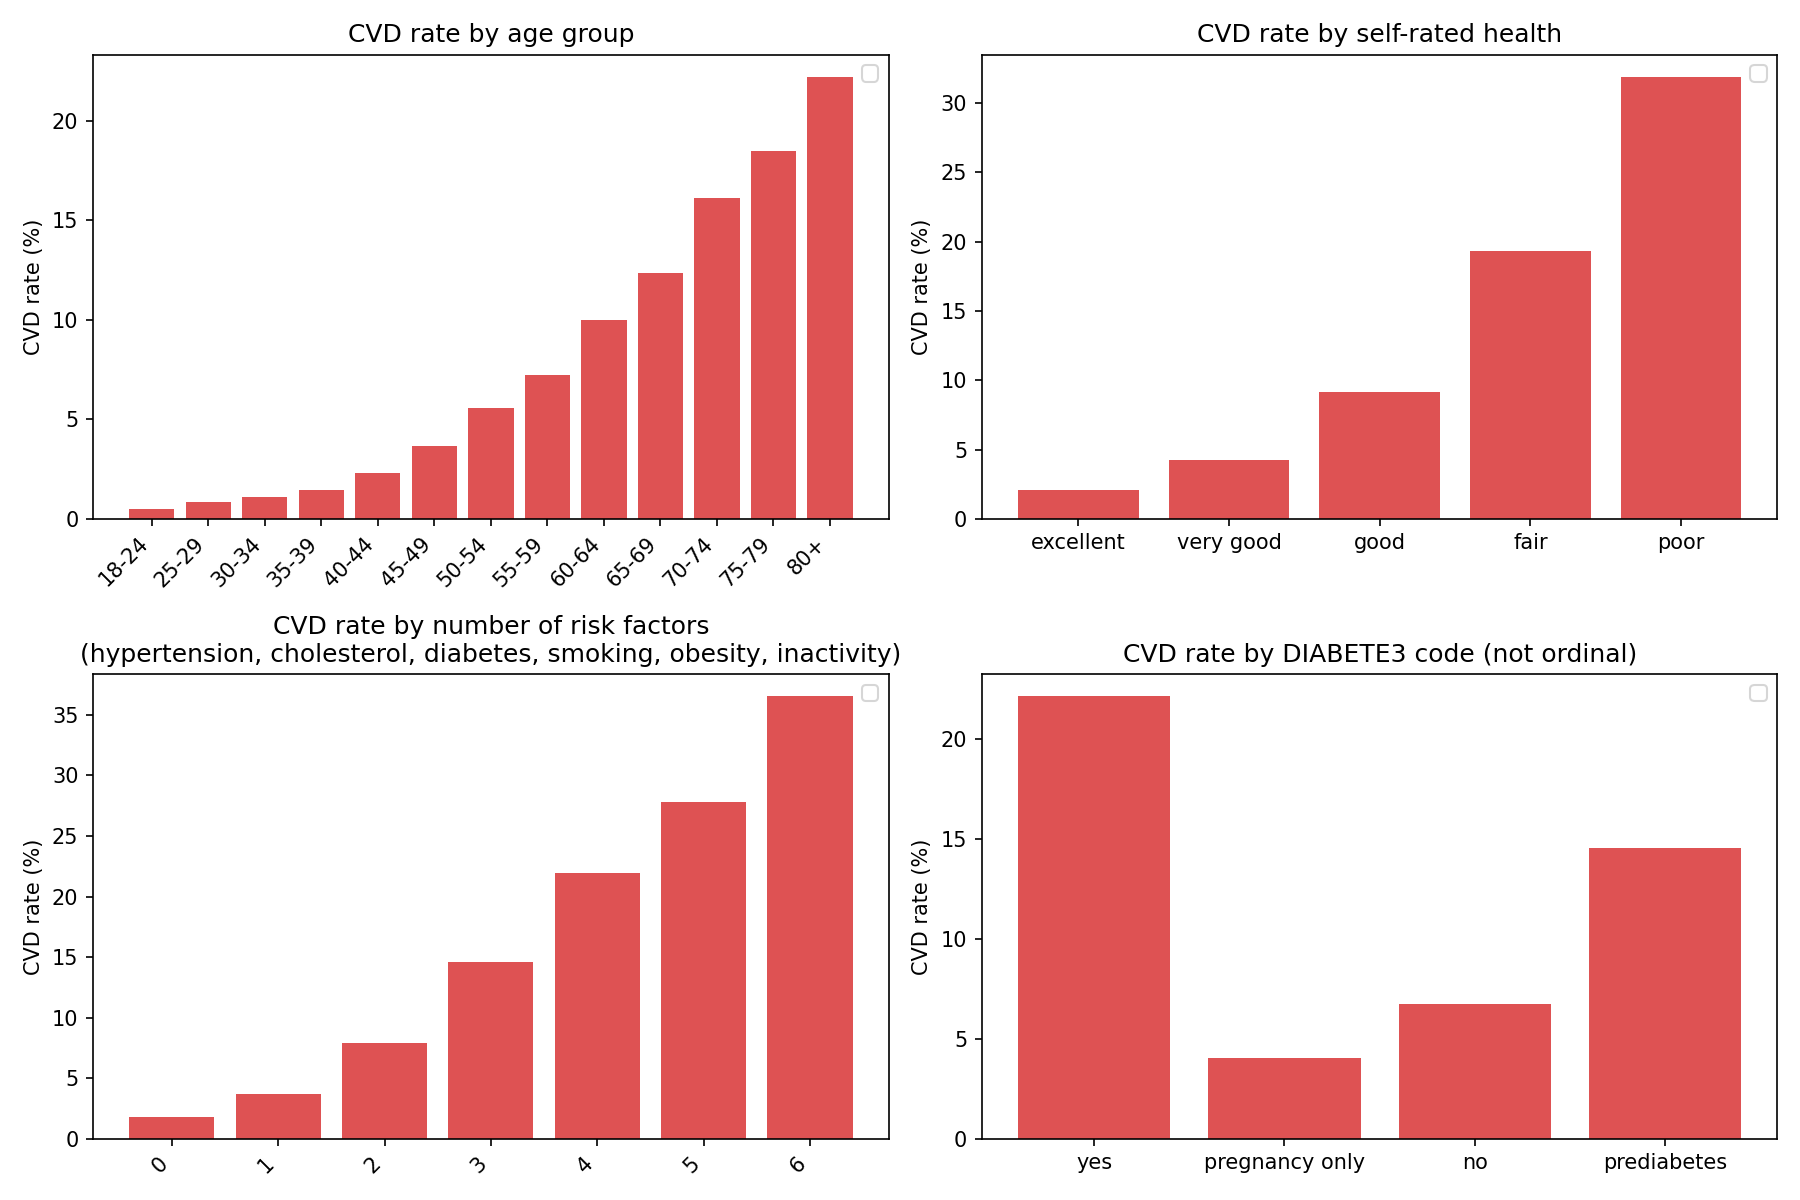
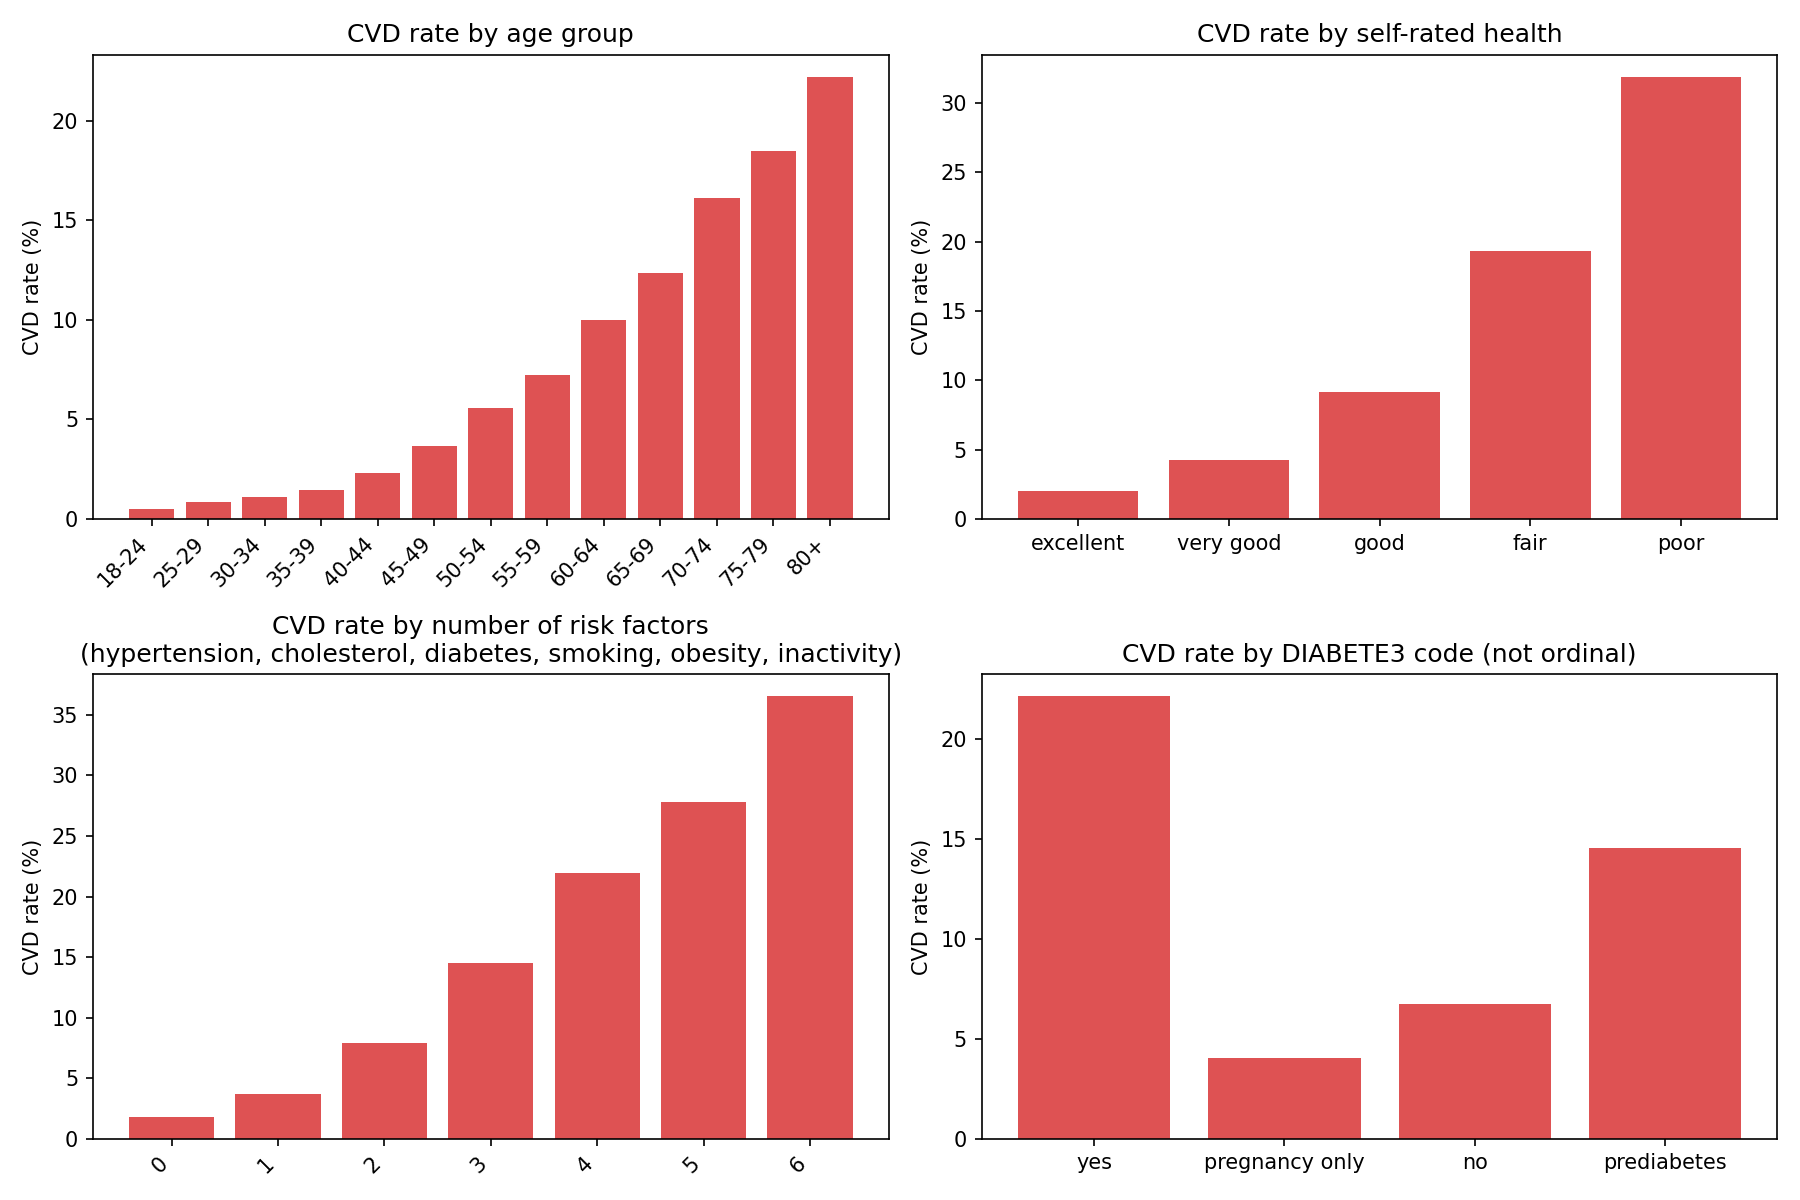
latest

diff --git a/eda.py b/eda.py
@@ -2,47 +2,120 @@ import os
 import numpy as np
 import matplotlib.pyplot as plt
 from helpers import load_csv_data
+from preprocessing import EXTRA_CODES, NOMINAL
 
 os.makedirs("eda_output", exist_ok=True)
 names = open("data/x_train.csv").readline().strip().split(",")[1:]
+col = {name: i for i, name in enumerate(names)}
 
 x_train, x_test, y_train, _, _ = load_csv_data("data")
 y = (y_train == 1).astype(float)
 
-# survey codes 7/77/777 - don't know, 9/99/999 - refused
-X = x_train.copy()
-for col in range(X.shape[1]):
-    values = X[~np.isnan(X[:, col]), col]
-    if len(values) and np.all(values == np.round(values)):
-        digits = len(str(int(values.max())))
-        X[np.isin(X[:, col], [int("7" * digits), int("9" * digits)]), col] = np.nan
 
+def replace_codes(x, names):
+    """ 7s/9s -> NaN (don't know / refused), 88 -> 0 (none),
+    calculated variables (_X, X_) only lose a 1-digit 9, plus the EXTRA_CODES."""
+    x = x.copy()
+    for c, name in enumerate(names):
+        values = x[~np.isnan(x[:, c]), c]
+        if len(values) == 0 or not np.all(values == np.round(values)):
+            continue
+        digits = len(str(int(values.max())))
+        calculated = name.startswith("_") or name.endswith("_") or name == "HTIN4"
+        if calculated:
+            codes = [9] if digits == 1 else []
+        else:
+            codes = [9] if name == "EMPLOY1" else [int("7" * digits), int("9" * digits)]
+        codes += EXTRA_CODES.get(name, [])
+        x[np.isin(x[:, c], codes), c] = np.nan
+        if not calculated and digits >= 2:
+            x[x[:, c] == int("8" * digits), c] = 0
+    return x
+
+
+def calculate_corr(v):
+    """Pearson r between a column and the label, on rows where the column is present."""
+    present = ~np.isnan(v)
+    if present.sum() < 2 or v[present].std() == 0 or y[present].std() == 0:
+        return 0.0
+    return np.corrcoef(v[present], y[present])[0, 1]
+
+
+X = replace_codes(x_train, names)
 missing = np.isnan(X).mean(axis=0)
 n_unique = np.array([len(np.unique(column[~np.isnan(column)])) for column in X.T])
-corr = np.array(
-    [
-        np.corrcoef(column[~np.isnan(column)], y[~np.isnan(column)])[0, 1] if count > 1 else 0
-        for column, count in zip(X.T, n_unique)
-    ]
-)
+nominal = np.isin(names, NOMINAL) & ~np.isin(names, ["DIABETE3", "BPHIGH4"]) 
+corr = np.array([calculate_corr(column) for column in X.T])
+
+partly = (missing > 0.01) & (missing < 0.99)
+miss_corr = np.array([np.corrcoef(np.isnan(column), y)[0, 1] if p else 0 for column, p in zip(X.T, partly)])
 
 print("train shape:", x_train.shape)
-print(f"positives: {y.mean():.1%}")
+print(f"positives: {y.mean():.1%}  (always predicting 'no' gives {1 - y.mean():.1%} accuracy)")
 print("features with survey codes:", int((missing > np.isnan(x_train).mean(axis=0)).sum()))
 print("features missing > 50% / 80%:", int((missing > 0.5).sum()), "/", int((missing > 0.8).sum()))
 print("constant:", int((n_unique <= 1).sum()), " binary:", int((n_unique == 2).sum()),
-      " discrete (3-15):", int(((n_unique > 2) & (n_unique <= 15)).sum()), " continuous:", int((n_unique > 15).sum()))  # fmt: skip
+      " discrete (3-15):", int(((n_unique > 2) & (n_unique <= 15)).sum()), " continuous:", int((n_unique > 15).sum())) 
 
-top = np.argsort(-np.abs(np.where(missing < 0.5, corr, 0)))[:15]
-print("\ntop 15 features (< 50% missing) by correlation with the label:")
-for col in top:
-    print(f"  {names[col]:<10} r={corr[col]:+.3f}  missing {missing[col]:.0%}")
+top = np.argsort(-np.abs(np.where((missing < 0.5) & ~nominal, corr, 0)))[:15]
+print("\ntop 15 features (< 50% missing, not nominal) by correlation with the label:")
+for c in top:
+    print(f"  {names[c]:<10} r={corr[c]:+.3f}  missing {missing[c]:.0%}")
 
-fig, ax = plt.subplots(1, 2, figsize=(10, 4))
+top_miss = np.argsort(-np.abs(miss_corr))[:10]
+print("\ntop 10 columns whose missingness correlates with the label (to check for leaks):")
+for c in top_miss:
+    print(f"  {names[c]:<10} r={miss_corr[c]:+.3f}  missing {missing[c]:.0%}")
+
+fig, ax = plt.subplots(1, 3, figsize=(16, 4.5))
 ax[0].hist(missing * 100, bins=20, range=(0, 100))
 ax[0].set_xlabel("% missing")
 ax[0].set_ylabel("number of features")
-ax[1].barh([names[col] for col in top[::-1]], np.abs(corr[top[::-1]]))
-ax[1].set_xlabel("|correlation| with MICHD")
+ax[0].set_title("Missing values per feature")
+
+for a, values, idx, title in [(ax[1], corr, top, "Top features (red = higher CVD rate)"),
+                              (ax[2], miss_corr, top_miss, "Missingness vs. label")]:  # fmt: skip
+    order = idx[::-1]
+    a.barh([names[c] for c in order], values[order], color=np.where(values[order] > 0, "tab:red", "tab:blue"))
+    a.axvline(0, color="black", linewidth=0.8)
+    a.set_xlabel("correlation with MICHD")
+    a.set_title(title)
 fig.tight_layout()
 fig.savefig("eda_output/eda.png", dpi=150)
+
+
+# CVD rate per category 
+def rate_plot(a, values, title, labels=None):
+    present = ~np.isnan(values)
+    cats = np.unique(values[present])
+    rates = [y[present][values[present] == cat].mean() * 100 for cat in cats]
+    ticks = labels if labels is not None and len(labels) == len(cats) else [f"{cat:g}" for cat in cats]
+    a.bar(range(len(cats)), rates, color="tab:red", alpha=0.8)
+    a.set_xticks(range(len(cats)), ticks, rotation=45 if len(cats) > 6 else 0, ha="right" if len(cats) > 6 else "center")
+    a.set_ylabel("CVD rate (%)")
+    a.set_title(title)
+
+
+# risk-factor count
+factors = {"_RFHYPE5": 2,   # high blood pressure (2 = yes)
+           "_RFCHOL": 2,    # high cholesterol
+           "DIABETE3": 1,   # diabetes (1 = yes)
+           "_RFSMOK3": 2,   # current smoker
+           "_RFBMI5": 2,    # obese (BMI > 30)
+           "_TOTINDA": 2}   # no physical activity in the past month (2 = inactive)
+values = X[:, [col[n] for n in factors]]
+known = ~np.isnan(values).any(axis=1)
+risk = np.where(known, (values == list(factors.values())).sum(axis=1), np.nan)
+print(f"risk-factor plot uses {known.mean():.0%} of people (all {len(factors)} answers known)")
+
+ages = ["18-24"] + [f"{a}-{a + 4}" for a in range(25, 80, 5)] + ["80+"]
+fig, ax = plt.subplots(2, 2, figsize=(12, 8))
+rate_plot(ax[0, 0], X[:, col["_AGEG5YR"]], "CVD rate by age group", ages)
+rate_plot(ax[0, 1], X[:, col["GENHLTH"]], "CVD rate by self-rated health",
+          ["excellent", "very good", "good", "fair", "poor"])
+rate_plot(ax[1, 0], risk, "CVD rate by number of risk factors\n(hypertension, cholesterol, diabetes, smoking, obesity, inactivity)")
+rate_plot(ax[1, 1], X[:, col["DIABETE3"]], "CVD rate by DIABETE3 code (not ordinal)",
+          ["yes", "pregnancy only", "no", "prediabetes"]) 
+fig.tight_layout()
+fig.savefig("eda_output/cvd_rates.png", dpi=150)
+print("\nsaved eda_output/eda.png and eda_output/cvd_rates.png")

diff --git a/preprocessing.py b/preprocessing.py
@@ -5,7 +5,7 @@ TO_REMOVE = ["FMONTH", "IDATE", "IMONTH", "IDAY", "IYEAR", "SEQNO", "_PSU",
              "_STSTR", "_STRWT", "_RAWRAKE", "_WT2RAKE", "_CLLCPWT", "_DUALCOR", "_LLCPWT",
              "WEIGHT2", "HEIGHT3", "ALCDAY5", "FRUITJU1", "FRUIT1", "FVBEANS", "FVGREEN",
              "FVORANG", "VEGETAB1", "EXEROFT1", "EXERHMM1", "EXEROFT2", "EXERHMM2", "STRENGTH",
-             "FLSHTMY2", "HIVTSTD3", "EXRACT11", "EXRACT21", "HAREHAB1"]
+             "FLSHTMY2", "HIVTSTD3", "EXRACT11", "EXRACT21", "HAREHAB1",]
 
 # codes that are not 7/9 and represent unknown value
 EXTRA_CODES = {"_AGEG5YR": [14], "_AGE65YR": [3], "DROCDY3_": [900], "_DRNKWEK": [99900],
